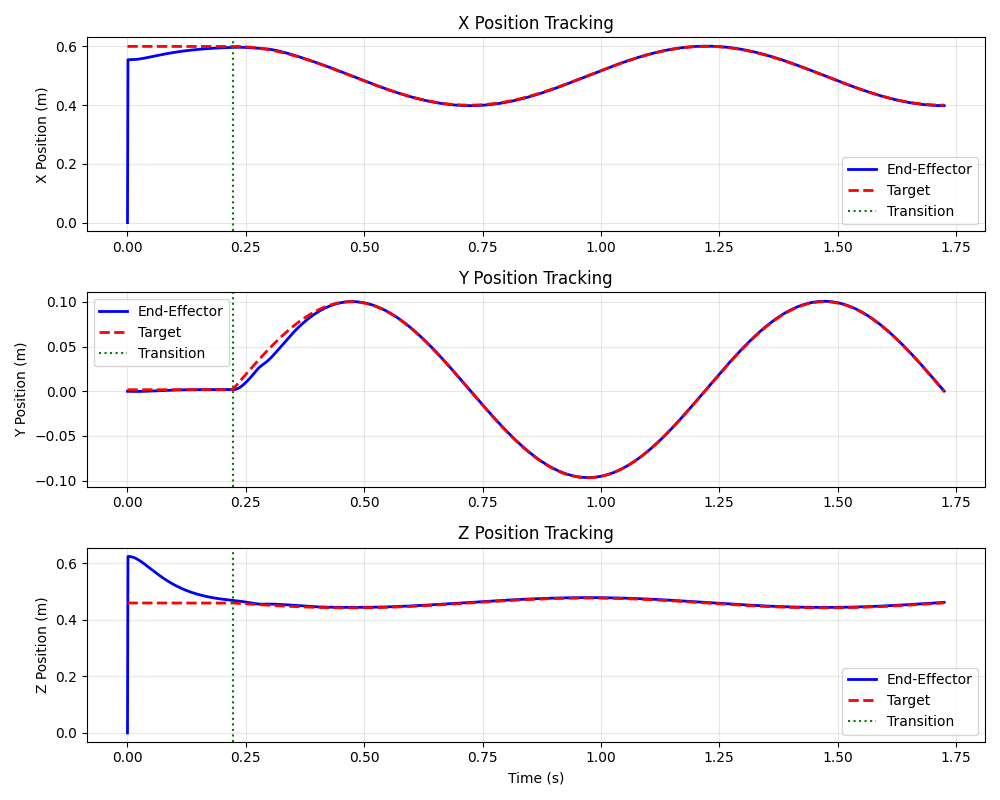
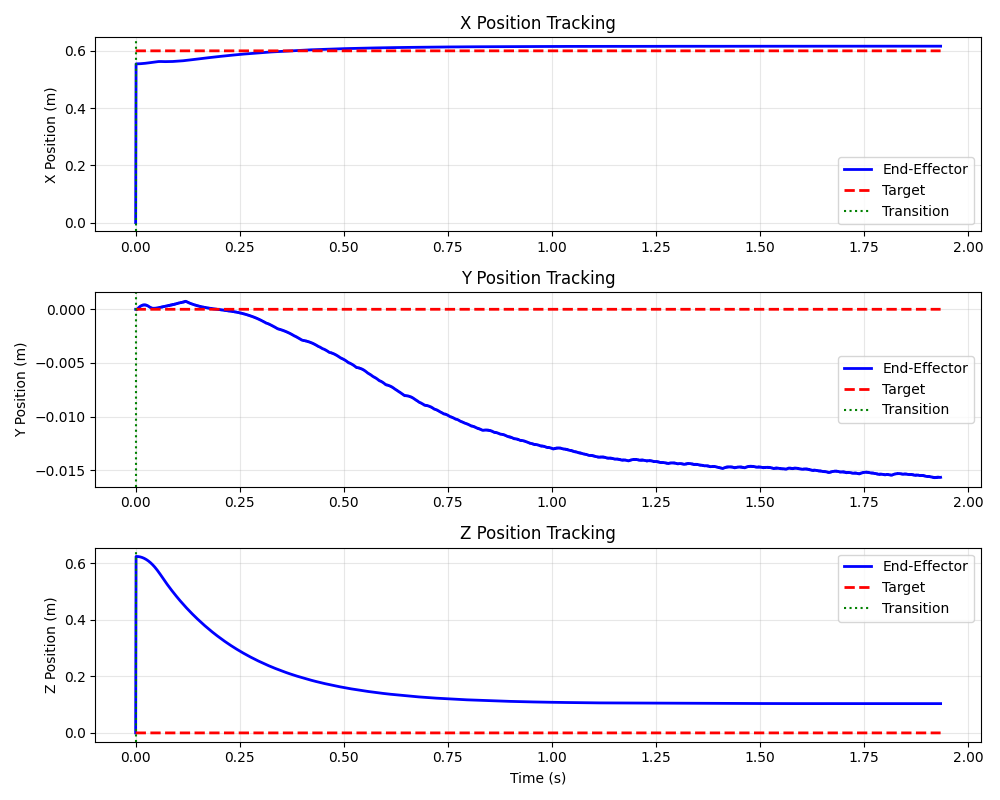
use genesis world xml file

diff --git a/mujoco_robot_interface.py b/mujoco_robot_interface.py
@@ -87,8 +87,9 @@ class MujocoRobotInterface:
         # Get joint IDs
         if joint_names is None:
             joint_names = ["joint1", "joint2", "joint3", "joint4", "joint5", "joint6", "joint7"]
+            actuator_names = ['actuator1', 'actuator2', 'actuator3', 'actuator4', 'actuator5', 'actuator6', 'actuator7']
         self.dof_ids = np.array([self.model.joint(name).id for name in joint_names])
-        self.actuator_ids = np.array([self.model.actuator(name).id for name in joint_names])
+        self.actuator_ids = np.array([self.model.actuator(name).id for name in actuator_names])
 
         # Store last contact force for external force estimation
         self._last_contact_force = np.zeros(6)

diff --git a/hybrid_slope_panda_pin_api.py b/hybrid_slope_panda_pin_api.py
@@ -722,7 +722,7 @@ def main() -> None:
     # ============================================================
     # 2. Load Model
     # ============================================================
-    pino_model = pino.buildModelFromMJCF("franka_emika_panda/panda_nohand.xml")
+    pino_model = pino.buildModelFromMJCF("franka_emika_panda/panda_nohand_genesis.xml")
     pino_data = pino_model.createData()
     try:
 
